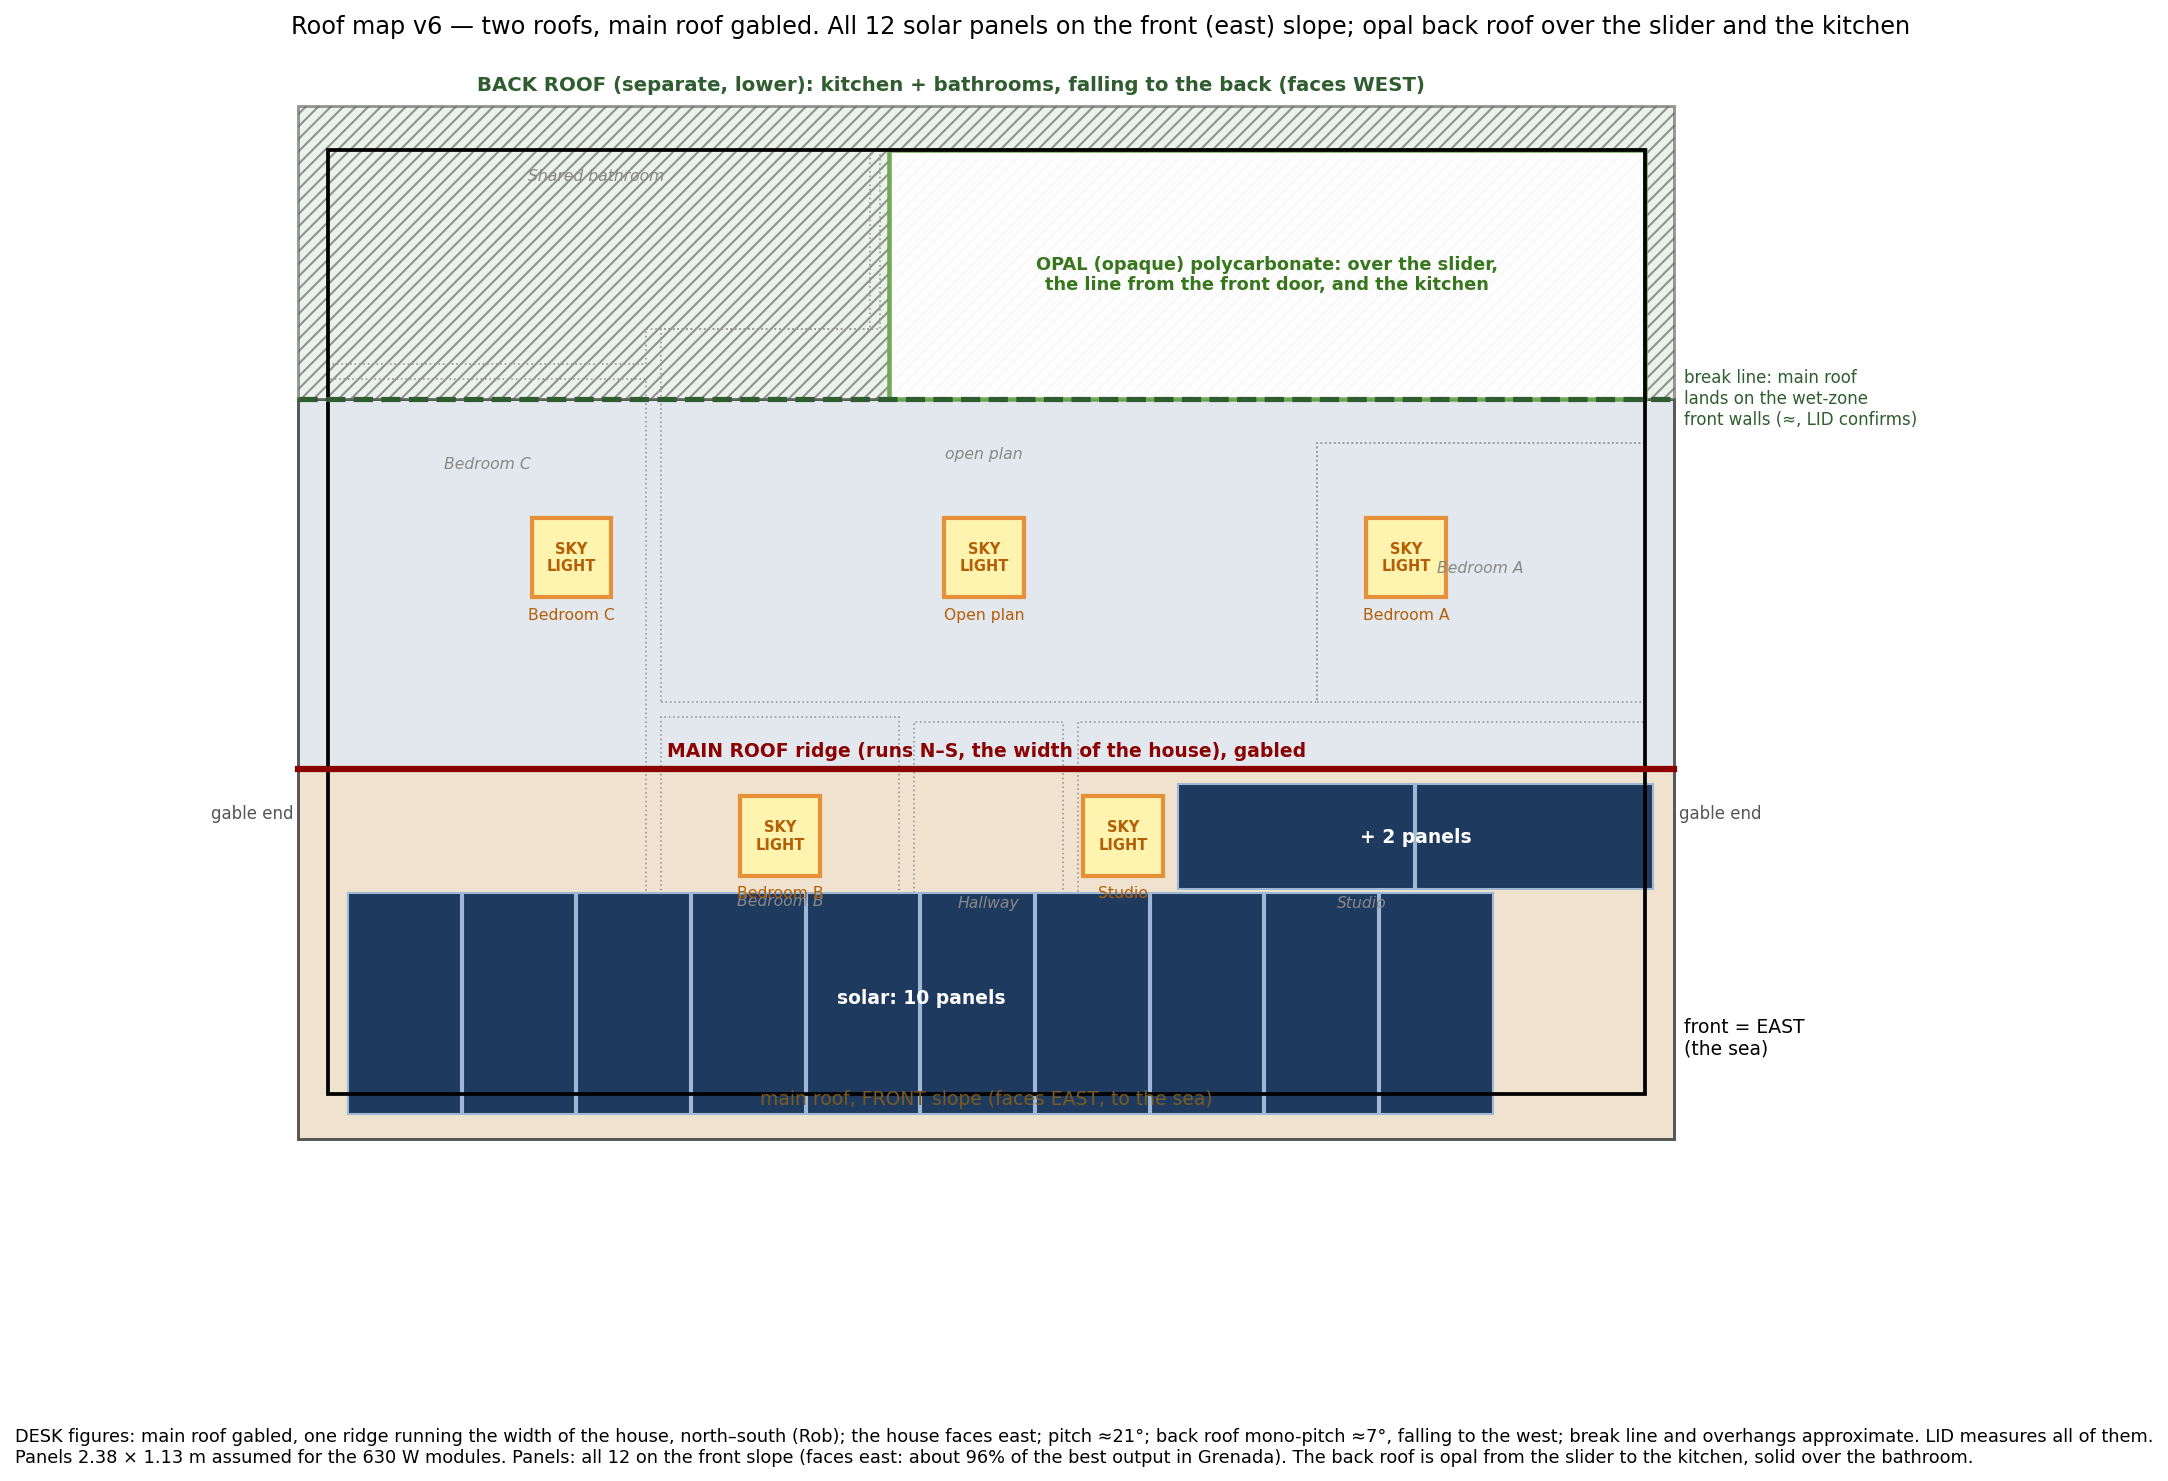
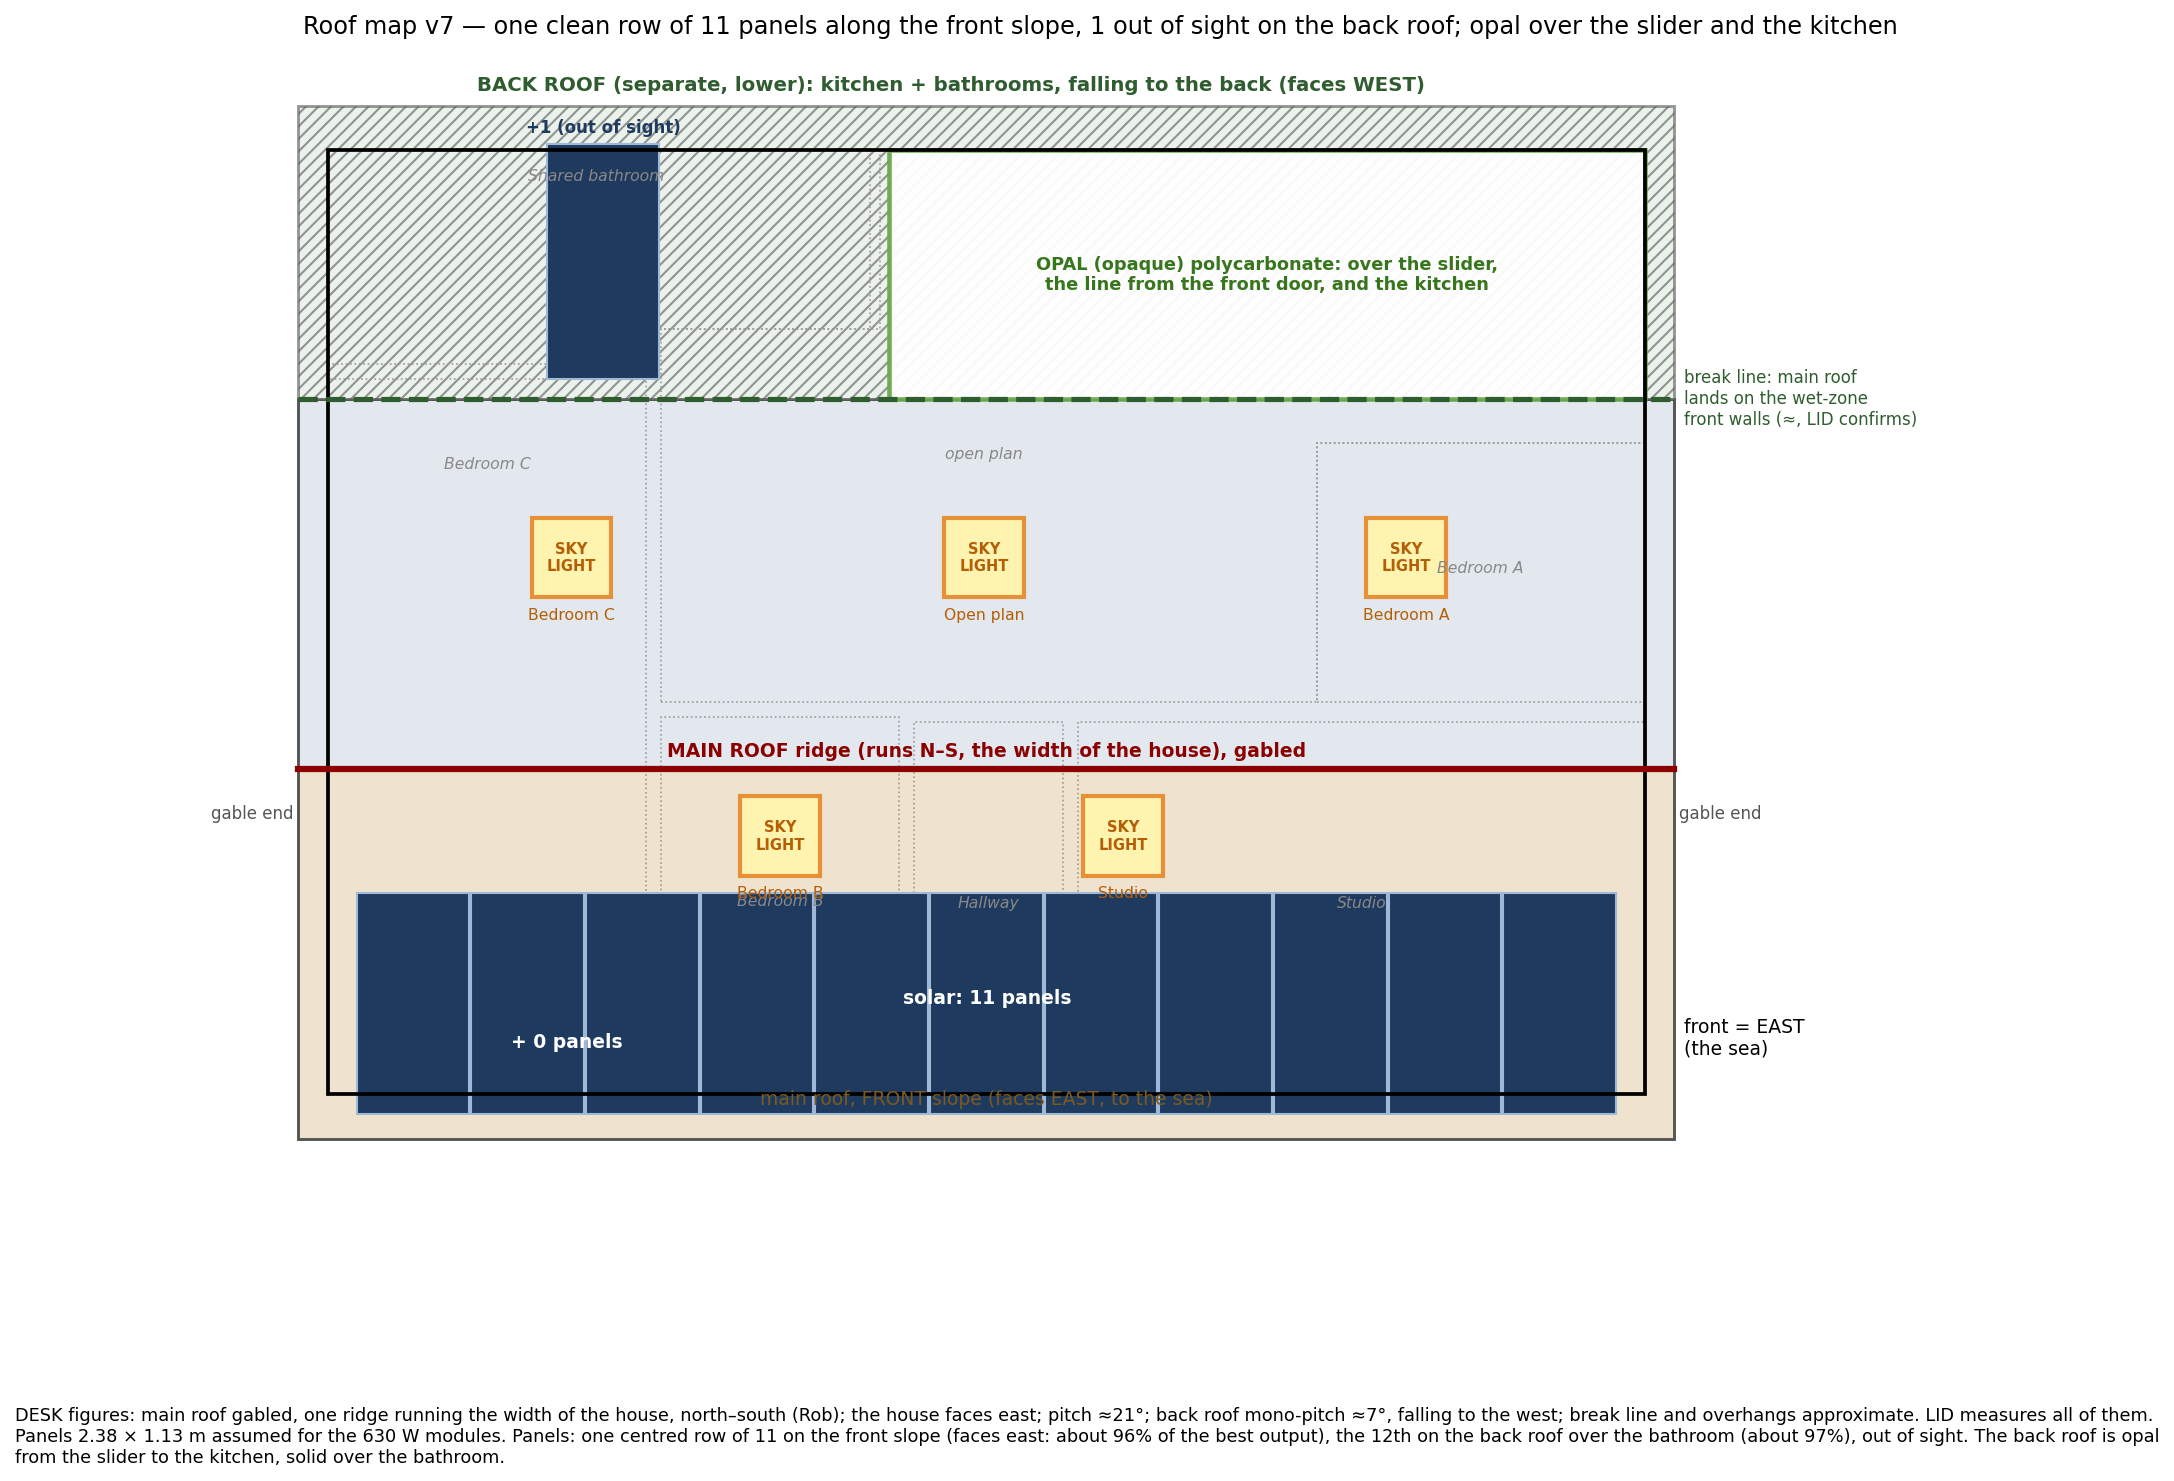
House page: solar as one clean row of 11 on the front + 1 out of sight (Rob)
Claude-Session: https://claude.ai/code/session_01Da7DVLUS4eTKAPdJEftquQ

diff --git a/house/index.html b/house/index.html
@@ -148,7 +148,7 @@ ul.plain{padding-left:20px;margin:0 0 16px} ul.plain li{margin-bottom:6px;max-wi
   <p>There are in effect two roofs. The main roof is gabled, with a single ridge running the width of the house. The house faces the sea to the east, so one slope faces east and the other west. A separate, lower roof covers the kitchen and bathroom at the back; over the slider and the kitchen it is opal polycarbonate, which lets daylight through; over the bathroom it is solid.</p>
   <ul class="plain">
     <li>Five skylights: one each in Bedrooms A, B and C, the studio and the open-plan room.</li>
-    <li>Twelve solar panels, all on the main roof's front slope, which faces east: ten along the eave and two above them, clear of the skylights.</li>
+    <li>Twelve solar panels: one clean row of eleven along the front slope, centred, which is what you see from the road; the twelfth sits out of sight on the back roof over the bathroom.</li>
   </ul>
   <figure><img src="media/roof-map.png" alt="Roof map" loading="lazy"><figcaption>The roof map: skylights, solar panels and the opal section.</figcaption></figure>
   <figure><img src="media/roof-3d.jpg" alt="3D view of the roof" loading="lazy"><figcaption>The roof in the 3D model.</figcaption></figure>
